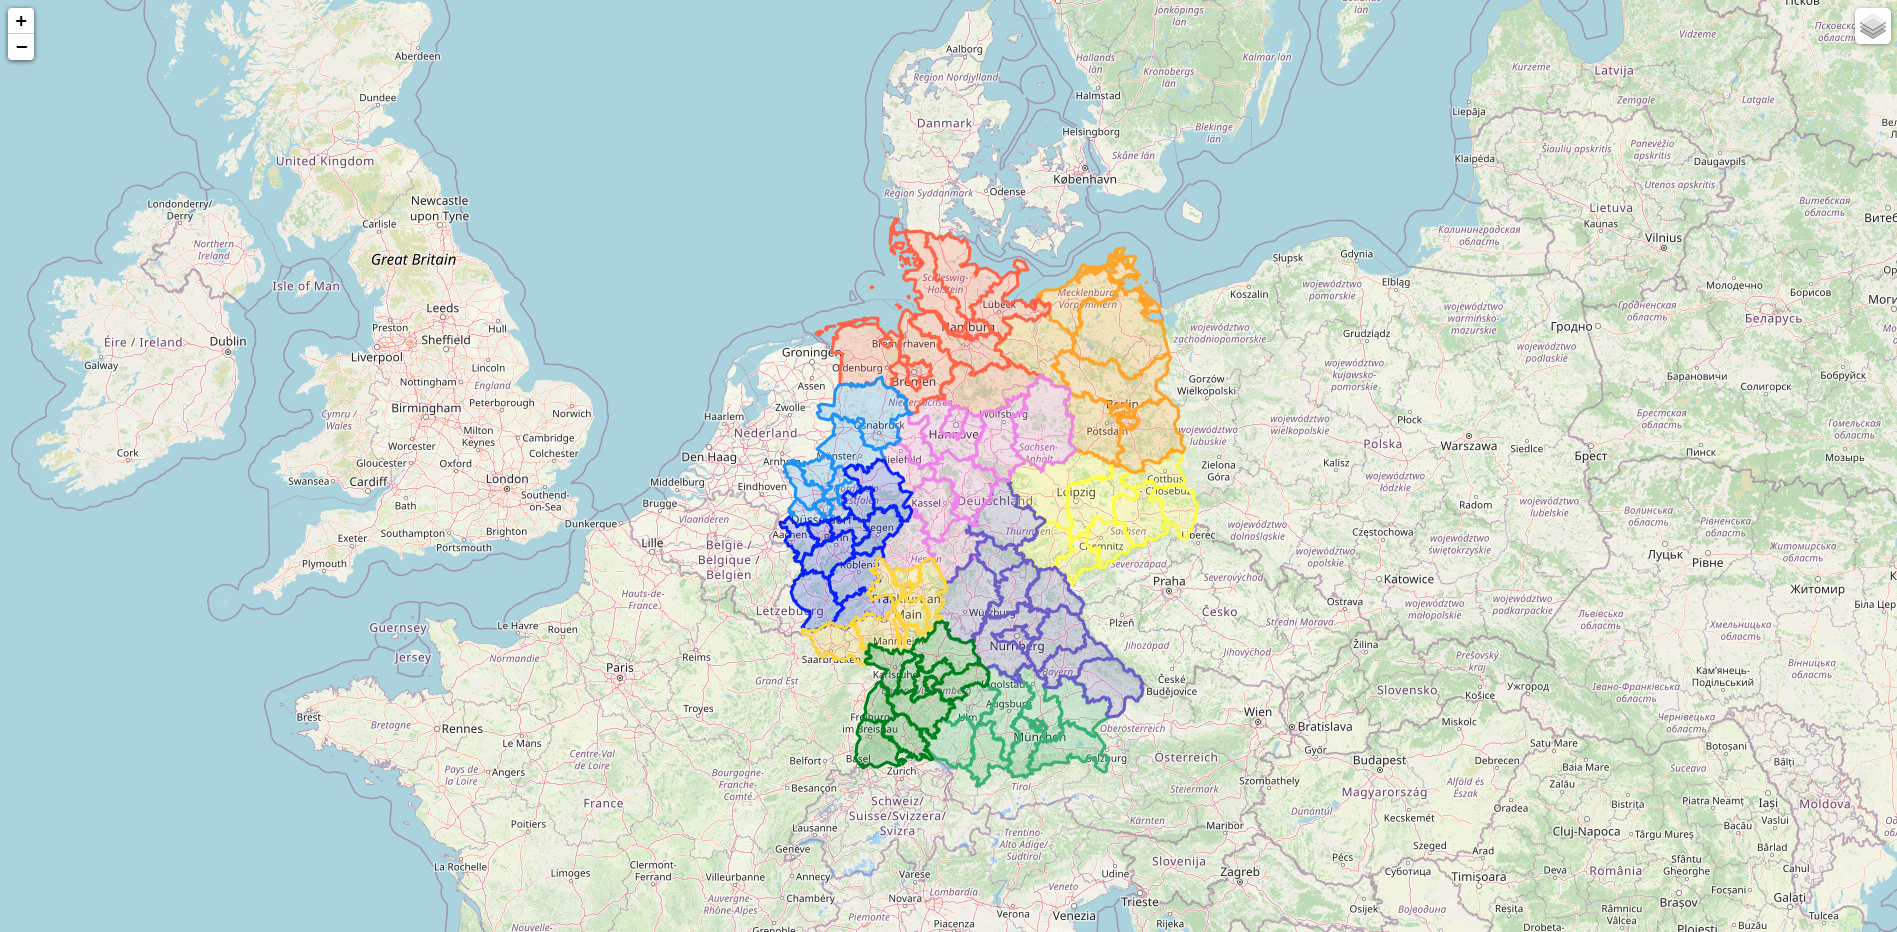
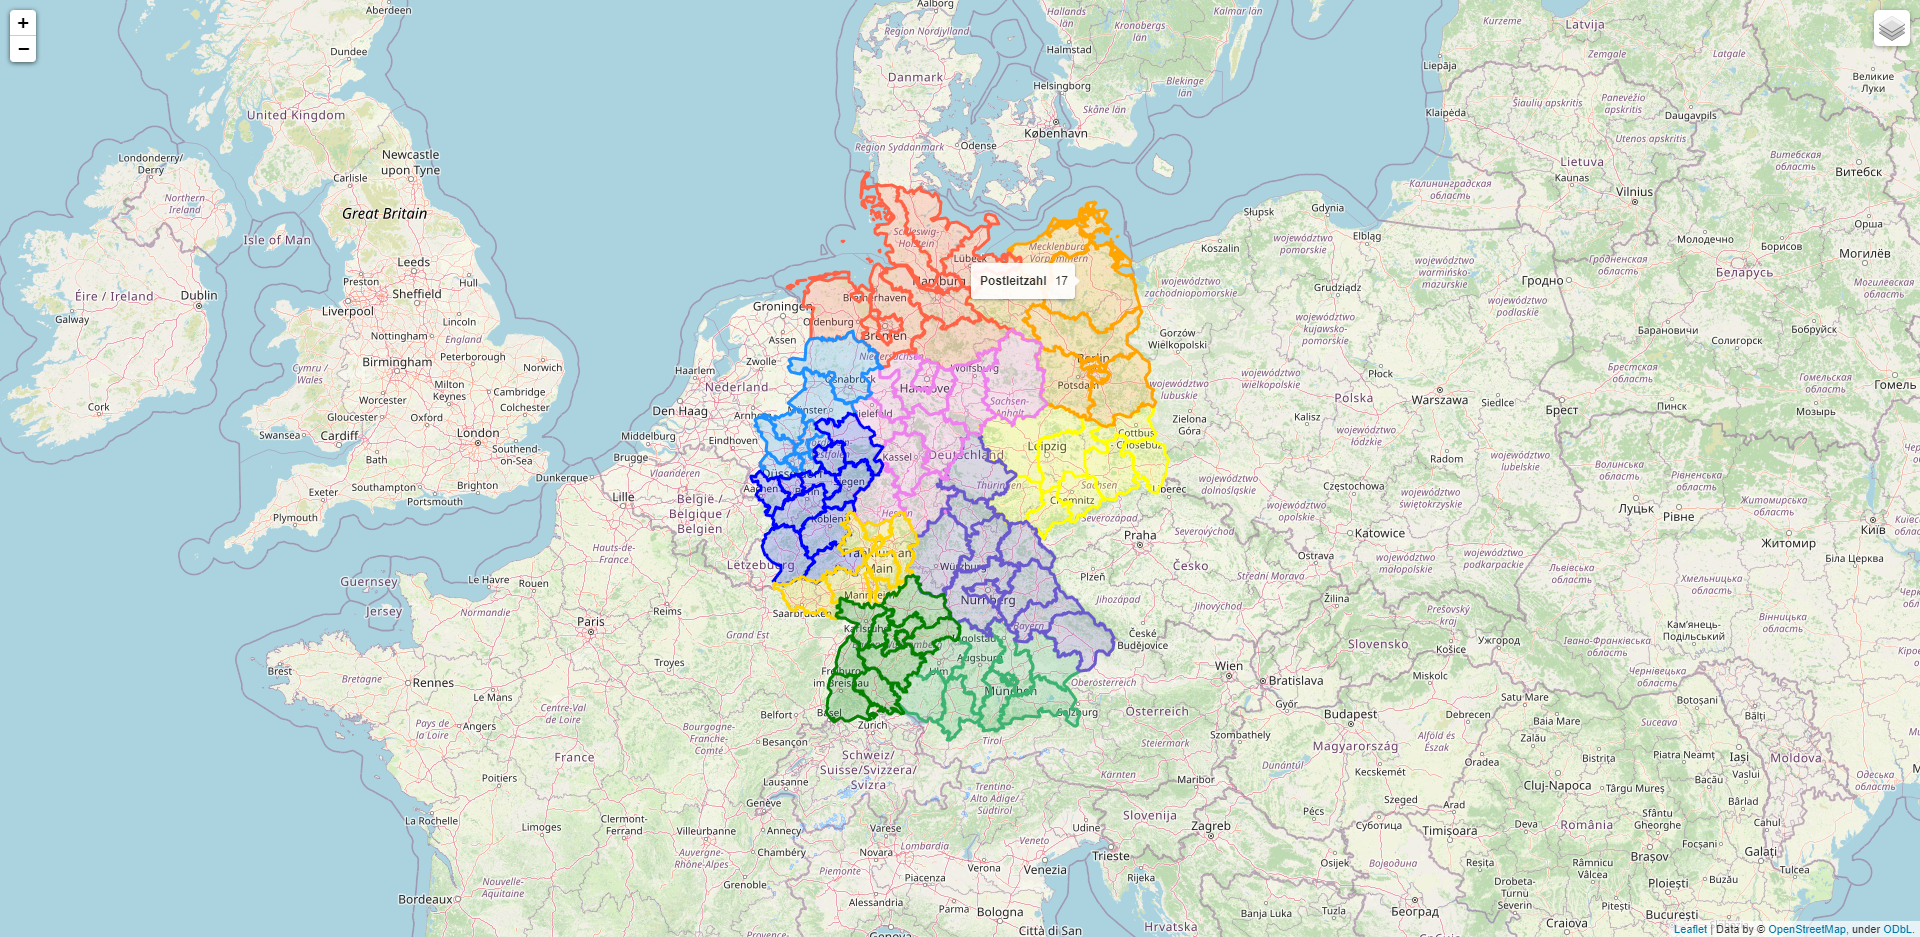
Visual polishing

diff --git a/map/map.html b/map/map.html
@@ -6,6 +6,7 @@
     <meta name="viewport" content="width=device-width, initial-scale=1.0" />
     <link rel="icon" type="image/x-icon" href="../assets/favicon.png" />
     <link rel="stylesheet" href="../assets/pyscript.css" />
+    <link rel="stylesheet" href="style.css" />
     <script defer src="../assets/pyscript.js"></script>
     <title>PLZ-Karte Deutschland</title>
     <!-- prettier-ignore -->
@@ -14,7 +15,7 @@
     </py-env>
   </head>
   <body>
-    <div id="folium" style="width: 100%; height: 100%"></div>
+    <div id="folium"></div>
     <py-script output="folium" src="script.py"></py-script>
   </body>
 </html>

diff --git a/map/style.css b/map/style.css
@@ -1,0 +1,9 @@
+body {
+  width: 100vw;
+  height: 100vh;
+  overflow: hidden;
+}
+#folium {
+  width: 100vw;
+  height: 100vh;
+}

diff --git a/map/script.py b/map/script.py
@@ -18,7 +18,7 @@ def style(x):
 
 # geo_json = json.loads(gpd.read_file("./plz-1stellig.shp", dtype={"plz": str}).to_json())
 geo_json = json.loads(open_url("./plz-2stellig.geojson").read())
-m = folium.Map(location=[50.4, 9.6], zoom_start=6)
+m = folium.Map(height=937, width=1920, location=[51.16, 10.45], zoom_start=6)
 folium.GeoJson(
     geo_json, 
     name="Postleitzahl", 
